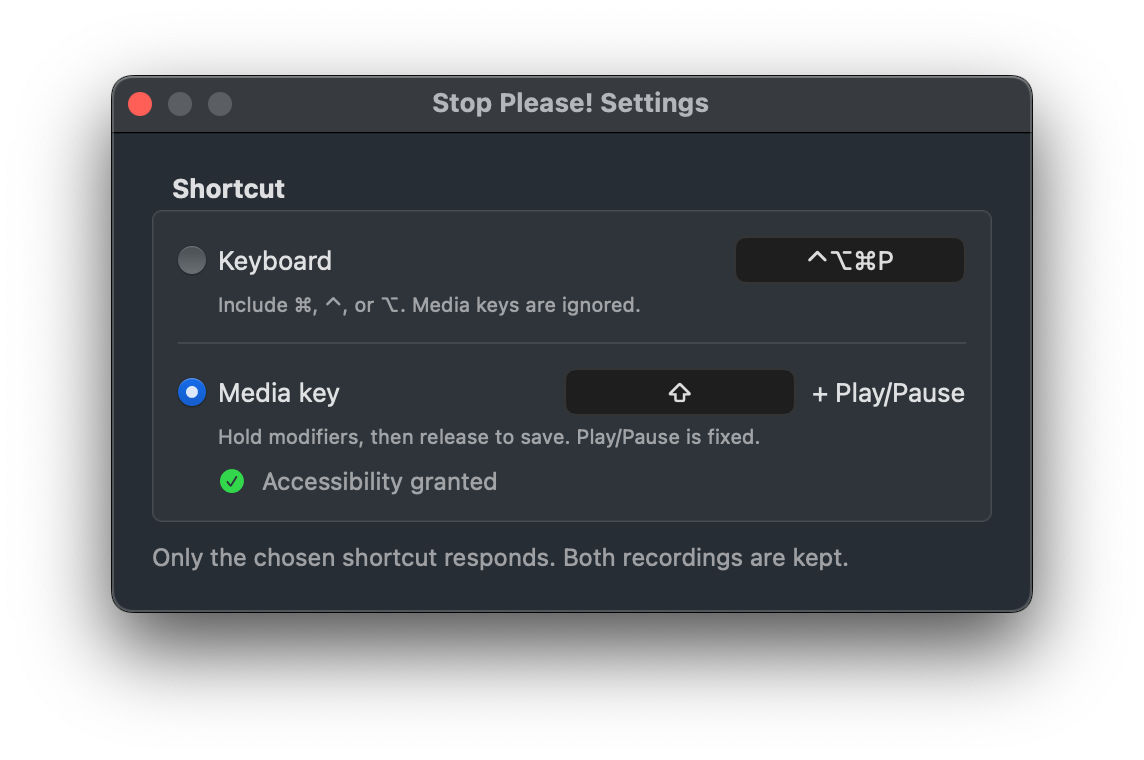
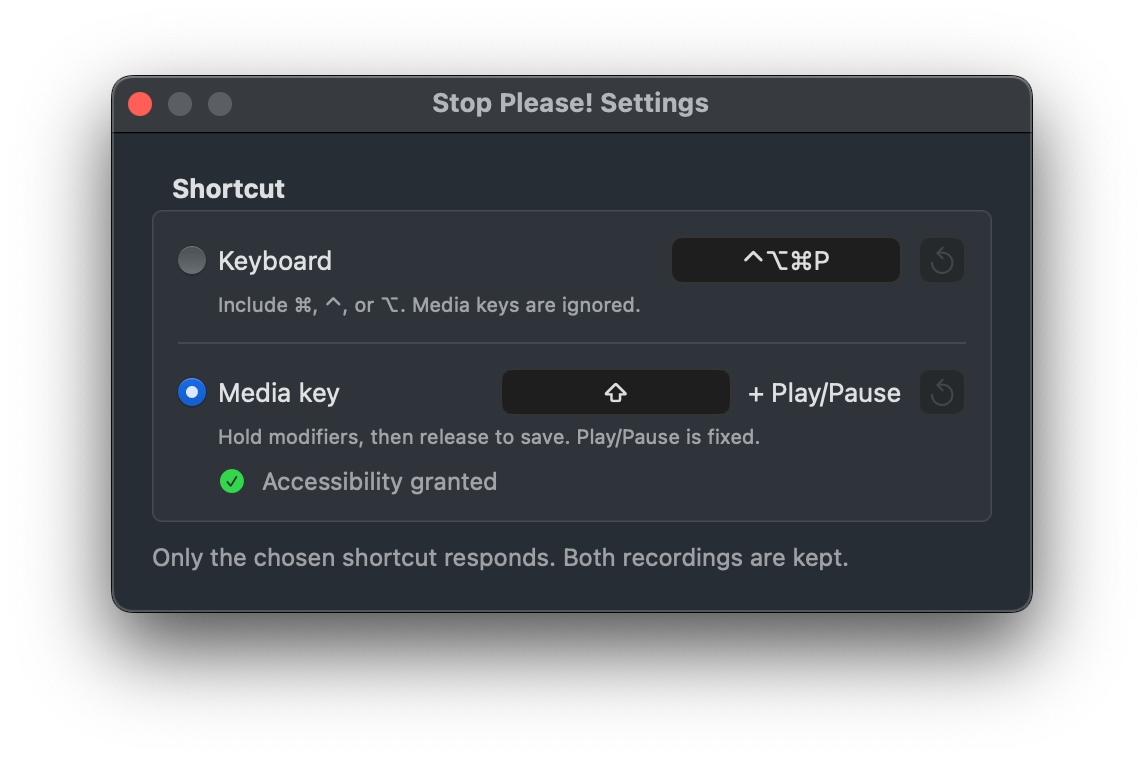
feat: add a reset button to each shortcut recorder

Changed region(s): [[0.5813, 0.4842, 0.8566, 0.5447], [0.5813, 0.3026, 0.826, 0.3934], [0.4283, 0.4842, 0.5507, 0.5447]]

diff --git a/StopPlease/Shortcuts/ShortcutController.swift b/StopPlease/Shortcuts/ShortcutController.swift
@@ -11,7 +11,7 @@ private let logger = Logger(subsystem: "com.andrecheng.StopPlease", category: "s
 /// Saved in user defaults: `shortcut` (`keyboard`, the default, or `mediaKey`),
 /// `keyboardKeyCode` and `keyboardModifiers` (default ⌃⌥⌘P), and
 /// `mediaKeyModifiers` (default ⇧). Modifiers are `NSEvent.ModifierFlags` raw
-/// values.
+/// values. A missing recording means the default.
 ///
 /// A revoke must remove the tap before the next click: macOS keeps a revoked tap
 /// in the event stream and holds each event it subscribes to, mouse-button events
@@ -30,6 +30,8 @@ final class ShortcutController {
     /// a tap it then holds events for.
     private static let timeoutsAllowed = 2
     private static let timeoutWindow: TimeInterval = 30
+
+    static let standardMediaKeyModifiers: NSEvent.ModifierFlags = .shift
 
     private(set) var choice: Choice
     private(set) var keyboardShortcut: KeyboardShortcut
@@ -80,7 +82,7 @@ final class ShortcutController {
             keyboardShortcut = .standard
         }
         let mediaKeyModifiers = (defaults.object(forKey: "mediaKeyModifiers") as? Int)
-            .map { NSEvent.ModifierFlags(rawValue: UInt($0)) } ?? .shift
+            .map { NSEvent.ModifierFlags(rawValue: UInt($0)) } ?? Self.standardMediaKeyModifiers
         self.mediaKeyModifiers = mediaKeyModifiers
         self.action = action
         mediaKey = MediaKeyTap(modifiers: mediaKeyModifiers)
@@ -158,6 +160,29 @@ final class ShortcutController {
         mediaKey.modifiers = modifiers
         UserDefaults.standard.set(Int(modifiers.rawValue), forKey: "mediaKeyModifiers")
         logger.info("Recorded \(self.mediaKeyName, privacy: .public)")
+    }
+
+    /// Settings' reset buttons: forget a recording, so the default applies. A
+    /// click during a recording ends it first.
+    func restoreKeyboardShortcut() {
+        keyboardShortcut = .standard
+        UserDefaults.standard.removeObject(forKey: "keyboardKeyCode")
+        UserDefaults.standard.removeObject(forKey: "keyboardModifiers")
+        logger.info("Restored \(self.keyboardShortcut.name, privacy: .public)")
+        // `register` does nothing while the old combination is registered.
+        if !mediaKeyActive {
+            keyboard.unregister()
+            registerKeyboard()
+        }
+        onChange()
+    }
+
+    func restoreMediaKeyModifiers() {
+        mediaKeyModifiers = Self.standardMediaKeyModifiers
+        mediaKey.modifiers = mediaKeyModifiers
+        UserDefaults.standard.removeObject(forKey: "mediaKeyModifiers")
+        logger.info("Restored \(self.mediaKeyName, privacy: .public)")
+        onChange()
     }
 
     /// "Accessibility Needed…" and the Open System Settings buttons of setup and

diff --git a/StopPlease/Windows/SettingsWindow.swift b/StopPlease/Windows/SettingsWindow.swift
@@ -182,6 +182,8 @@ private struct SettingsView: View {
                               isPlaceholder: recording && recorder.held.isEmpty, isRecording: recording) {
                     recorder.start(.keyboard)
                 }
+                ResetButton(help: "Restore \(KeyboardShortcut.standard.name)") { shortcuts.restoreKeyboardShortcut() }
+                    .disabled(shortcuts.keyboardShortcut == .standard)
             }
             Caption(text: keyboardCaption.text, isError: keyboardCaption.isError)
         }
@@ -208,6 +210,10 @@ private struct SettingsView: View {
                     recorder.start(.mediaKey)
                 }
                 Text("+ Play/Pause")
+                ResetButton(help: "Restore \(ShortcutController.standardMediaKeyModifiers.symbols) + Play/Pause") {
+                    shortcuts.restoreMediaKeyModifiers()
+                }
+                .disabled(shortcuts.mediaKeyModifiers == ShortcutController.standardMediaKeyModifiers)
             }
             Caption(text: mediaKeyCaption, isError: false)
             if shortcuts.choice == .mediaKey {
@@ -294,6 +300,29 @@ private struct RecorderField: View {
                 .contentShape(Rectangle())
         }
         .buttonStyle(.plain)
+    }
+}
+
+/// A square after a recorder field that restores its default; dimmed while the
+/// default is recorded. Its click also ends a recording, as any click does.
+private struct ResetButton: View {
+    let help: String
+    let action: () -> Void
+    @Environment(\.isEnabled) private var isEnabled
+
+    var body: some View {
+        Button(action: action) {
+            Image(systemName: "arrow.counterclockwise")
+                .foregroundStyle(isEnabled ? Color.primary : Color.secondary.opacity(0.5))
+                .frame(width: 24, height: 24)
+                .background(Color(nsColor: .controlBackgroundColor), in: RoundedRectangle(cornerRadius: 6))
+                .overlay {
+                    RoundedRectangle(cornerRadius: 6).strokeBorder(Color(nsColor: .separatorColor))
+                }
+                .contentShape(Rectangle())
+        }
+        .buttonStyle(.plain)
+        .help(help)
     }
 }
 

diff --git a/README.md b/README.md
@@ -63,7 +63,7 @@ Groups:
 
 ### The menu
 
-<img src="assets/menu.png" width="306" alt="The Stop Please menu: three paused Now Playing sources, Pause All Playing with its shortcut, one saved group under Resume, Settings, and Quit">
+<img src="assets/menu.png" width="306" alt="The Stop Please menu: three paused Now Playing sources, Pause All Playing with its shortcut, two saved groups under Resume, Settings, and Quit">
 
 - **Now Playing** lists every source with its app icon, title, and state.
 - **Pause All Playing** does the same as the shortcut when something is playing; the shortcut is shown on its right.
@@ -95,9 +95,9 @@ Open **Settings…** from the menu (⌘,) to choose between the two shortcuts an
 - **Keyboard**: a letter, number, symbol, or F-key with at least one of ⌘, ⌃, or ⌥.
 - **Media key**: Play/Pause is fixed; hold the modifiers you want and release them to save. Shift alone is allowed.
 
-Only the chosen shortcut responds, and both recordings are kept.
+Only the chosen shortcut responds, and both recordings are kept. The ↺ button after each one restores its default (⌃⌥⌘P or Shift + Play/Pause).
 
-<img src="assets/settings.png" width="572" alt="Stop Please! Settings: the keyboard shortcut ⌃⌥⌘P and the media-key shortcut ⌃ + Play/Pause, with the media key chosen and Accessibility granted">
+<img src="assets/settings.png" width="572" alt="Stop Please! Settings: the keyboard shortcut ⌃⌥⌘P and the media-key shortcut ⇧ + Play/Pause, with the media key chosen and Accessibility granted">
 
 ---
 
